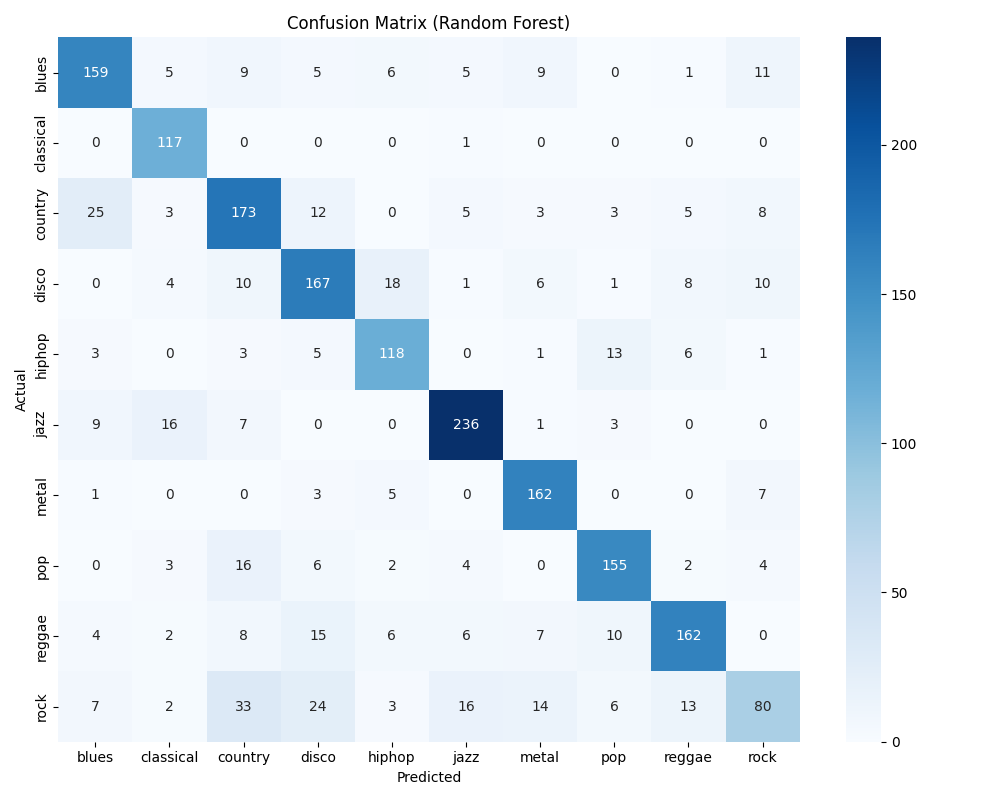
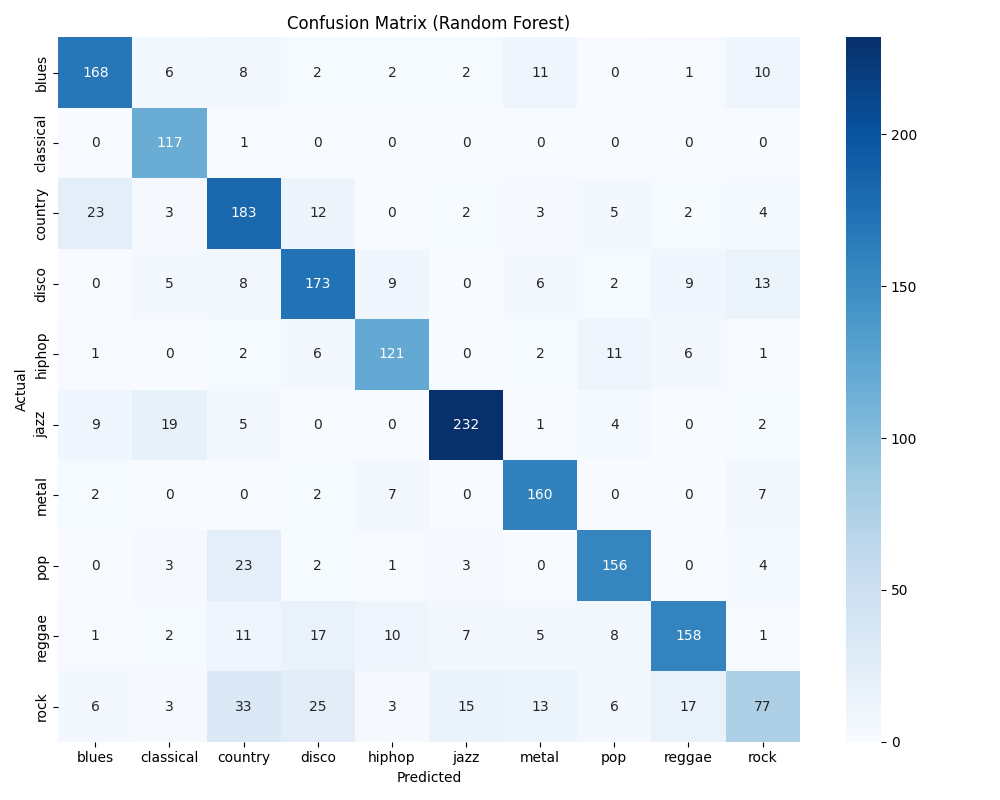
V3.2

diff --git a/RF_opti.py b/RF_opti.py
@@ -1,0 +1,108 @@
+import numpy as np
+from sklearn.ensemble import RandomForestClassifier
+from sklearn.model_selection import GridSearchCV
+import pandas as pd
+import matplotlib.pyplot as plt
+from carrega_dades import *
+
+def optimitzar_random_forest_grid(X_train, y_train, random_state=42):
+    # 1. Definició de la malla (Grid) de paràmetres a provar
+    param_grid = {
+        'n_estimators': [50, 100, 200],  # Nombre d'arbres al bosc
+        'max_depth': [5, 10, 20, None],  # Profunditat màxima (None significa sense límit)
+        'min_samples_split': [2, 5],     # Mínim de mostres necessàries per dividir un node
+    }
+    
+    # Calcular el nombre total de models a provar
+    num_combinations = (
+        len(param_grid['n_estimators']) * len(param_grid['max_depth']) * len(param_grid['min_samples_split'])
+    )
+    
+    print("\n" + "="*70)
+    print("Iniciant cerca de Grid Search per a Random Forest")
+    print(f"Combinacions a provar: {num_combinations} (x 5 folds)")
+    print("="*70)
+
+    # 2. Inicialització de GridSearchCV
+    grid_search = GridSearchCV(
+        estimator=RandomForestClassifier(random_state=random_state),
+        param_grid=param_grid,
+        scoring='accuracy',  
+        cv=5,               
+        verbose=3,
+        n_jobs=-1 
+    )
+
+    # 3. Execució de la cerca i entrenament
+    grid_search.fit(X_train, y_train)
+
+    return grid_search
+
+def plot_rf_optimization_results(grid_search, save_path=None):
+    
+    results = grid_search.cv_results_
+    df_results = pd.DataFrame(results)
+    
+    # Ens centrem en les variacions de max_depth, creant una línia per a cada n_estimators
+    depths = df_results['param_max_depth'].unique()
+    estimators = df_results['param_n_estimators'].unique()
+
+    plt.figure(figsize=(14, 8))
+    
+    for n_est in estimators:
+        # Filtrem per n_estimators i agrupem per max_depth
+        subset = df_results[df_results['param_n_estimators'] == n_est]
+        
+        # Opció simplificada: Agrupem pel n_estimators i max_depth, agafant el millor score
+        grouped = subset.groupby('param_max_depth')['mean_test_score'].max()
+
+        # Reemplacem 'None' amb un string per a les etiquetes
+        depth_labels = [str(d) for d in grouped.index]
+        
+        plt.plot(
+            depth_labels,
+            grouped.values,
+            marker='o', 
+            linestyle='-',
+            label=f'{n_est} Estimadors'
+        )
+
+    plt.xlabel('Profunditat Màxima (max_depth)', fontsize=14)
+    plt.ylabel(f"Puntuació Mitjana de Validació Creuada (Accuracy)", fontsize=14)
+    plt.title('Rendiment del Random Forest segons Profunditat i Nombre d\'Arbres', fontsize=16)
+    
+    plt.legend(title='Nombre d\'Estimadors', fontsize=12)
+    plt.grid(True, which="both", ls="--", c='0.7')
+    plt.tight_layout()
+    
+    if save_path:
+        plt.savefig(save_path)
+        print(f" Gràfic de Random Forest Grid Search desat a: {save_path}")
+            
+    plt.show()
+
+# 1. Carrega de dades 
+try:
+    X_train, X_test, y_train, y_test, label_encoder, scaler = cargar_y_preprocesar_datos_3s() # Per a 3 segons
+    #X_train, X_test, y_train, y_test, label_encoder, scaler = cargar_y_preprocesar_datos_30s() # Per a 30 segons
+    class_names = label_encoder.classes_
+except Exception as e:
+    print(e)
+    exit()
+
+# 2. Executar la cerca d'hiperparàmetres
+resultats_grid_rf = optimitzar_random_forest_grid(X_train, y_train, random_state=42)
+
+# 3. Imprimir i Analitzar els resultats
+print("\n" + "="*50)
+print("Millors Paràmetres Trobats (Random Forest):")
+print(resultats_grid_rf.best_params_)
+print("Millor Precisió (Accuracy) en Validació Creuada:")
+print(f"{resultats_grid_rf.best_score_:.4f}")
+print("="*50)
+
+# 4. Generar la visualització
+# Defineix la ruta on vols guardar la gràfica
+GRAFIC_RF_PATH = './Plots/Random Forest/rf_grid_results.png' 
+plot_rf_optimization_results(resultats_grid_rf, save_path=GRAFIC_RF_PATH)
+

diff --git a/SVM_opti.py b/SVM_opti.py
@@ -49,9 +49,9 @@ def plot_grid_search_results(grid_search, save_path=None):
     if save_path:
         try:
             plt.savefig(save_path)
-            print(f"✅ Gràfic de Grid Search desat a: {save_path}")
+            print(f"Gràfic de Grid Search desat a: {save_path}")
         except Exception as e:
-            print(f"❌ Error al guardar el gràfic: {e}")
+            print(f"Error al guardar el gràfic: {e}")
 
 
 ### 1. Carrega i Preprocessament de les Dades
@@ -84,22 +84,13 @@ grid_search.fit(X_train, y_train)
 
 # 2.4. Resultats de l'Optimització
 print("\n" + "="*50)
-print("🏆 Millors Paràmetres Trobats:")
+print("Millors Paràmetres Trobats:")
 print(grid_search.best_params_)
 print("\nMillor Precisió (Accuracy) en Validació Creuada:")
 print(f"{grid_search.best_score_:.4f}")
 print("="*50)
 
-# 1. Definició de les variables de ruta
-NOM_GRÀFIC = 'resultats_grid_svm.png'
-CARPETA_PLOT = 'Plots'
-CARPETA_SVM = 'SVM'
 
-# 2. Creació de la ruta completa
-base_dir = os.path.dirname(os.path.abspath(__file__)) 
-directori_desti = os.path.join(base_dir, CARPETA_PLOT, CARPETA_SVM)
-path_complet_guardar = os.path.join(directori_desti, NOM_GRÀFIC)
-os.makedirs(directori_desti, exist_ok=True) 
 
-# 3. Cridar la funció per guardar
-plot_grid_search_results(grid_search, save_path=path_complet_guardar)
+GRAFIC_RF_PATH = './Plots/SVM/rf_grid_results.png' 
+plot_grid_search_results(grid_search, GRAFIC_RF_PATH)

diff --git a/R_Forest.py b/R_Forest.py
@@ -3,12 +3,11 @@ from sklearn.ensemble import RandomForestClassifier
 from sklearn.metrics import accuracy_score, confusion_matrix, classification_report, precision_recall_fscore_support
 import numpy as np
 import pandas as pd
-# --- IMPORTAR TU NUEVO MÓDULO ---
 from carrega_dades import *
 from Plots import *
 
 MODEL = "Random Forest"
-# 1. CARGA Y PREPROCESAMIENTO (¡Solo una línea!)
+# 1. CARGA Y PREPROCESAMIENTO 
 try:
     X_train, X_test, y_train, y_test, label_encoder, scaler = cargar_y_preprocesar_datos_3s() # Per a 3 segons
     #X_train, X_test, y_train, y_test, label_encoder, scaler = cargar_y_preprocesar_datos_30s() # Per a 30 segons
@@ -66,9 +65,12 @@ print("\n--- 4. ENTRENAMIENTO DE RANDOM FOREST ---")
 
 # 4.1. Definición del Model
 model = RandomForestClassifier(
-    n_estimators=100,
-    random_state=42,
-    n_jobs=-1
+    n_estimators=200,       # Abans: 100, Ara: 200
+    max_depth=20,             # S'afegeix la profunditat màxima: 20
+    min_samples_split=2, # S'afegeix el mínim de mostres per a la divisió: 2
+    
+    random_state=42, # Mantens la llavor per a la reproductibilitat
+    n_jobs=-1        # Mantens l'ús de tots els nuclis
 )
 
 # 4.2. Entrenamiento
